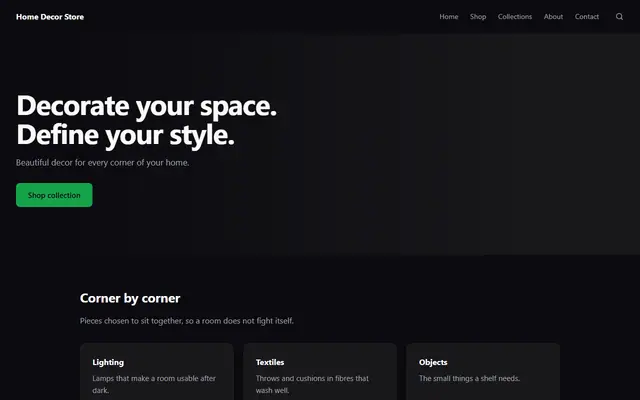
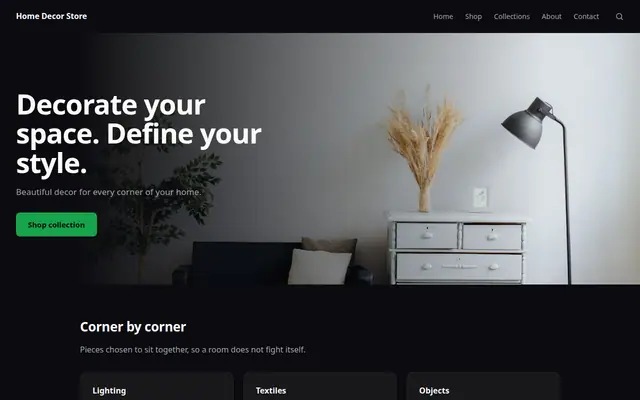
fix(templates): show real hero photos on blank gallery thumbnails
Hero images used loading=lazy and Unsplash AVIF, so some thumbnail
renders (law-firm, startup, music-artist, fashion-brand, and others)
shipped as dark empty tiles with only the index number. Eager-load
heroes, force JPEG during thumbnail shoots, and wait for decode before
screenshotting so every library card shows its photograph.

diff --git a/scripts/render-template-thumbnails.ts b/scripts/render-template-thumbnails.ts
@@ -63,10 +63,25 @@ function documentFor(files: Record<string, string>): string {
     // The stylesheet is referenced as a relative path the page cannot resolve from a data
     // URL, so it is inlined rather than served. Substitution, not rewriting: the <link> is
     // replaced in place so nothing else about the document changes.
-    return html.replace(
+    let doc = html.replace(
         /<link\b[^>]*rel="stylesheet"[^>]*>/i,
         `<style>${css}</style>`,
     );
+
+    // Headless Chromium sometimes negotiates AVIF from Unsplash (`auto=format`) and then
+    // screenshots a black frame even though naturalWidth > 0. Pin JPEG for the shoot so
+    // every gallery tile gets the photograph the design ships.
+    doc = doc.replace(
+        /(https:\/\/images\.unsplash\.com\/[^"'?\s]+)\?([^"'?\s]*)/g,
+        (_match, base: string, query: string) => {
+            const params = new URLSearchParams(query.replace(/&amp;/g, "&"));
+            params.delete("auto");
+            params.set("fm", "jpg");
+            return `${base}?${params.toString()}`;
+        },
+    );
+
+    return doc;
 }
 
 async function shoot(browser: Browser, id: string, html: string): Promise<number> {
@@ -79,22 +94,78 @@ async function shoot(browser: Browser, id: string, html: string): Promise<number
     try {
         await page.setContent(html, { waitUntil: "load" });
 
-        // The hero photograph is the whole character of most of these designs, and
-        // `waitUntil: 'load'` can resolve before a lazily-decoded image has painted. Waiting
-        // on the images themselves is the difference between a library of designs and a
-        // library of grey rectangles.
-        await page
-            .waitForFunction(
-                () => Array.from(document.images).every((i) => i.complete),
-                undefined,
-                { timeout: 15_000 },
-            )
-            .catch(() => {
-                // A photograph that will not load is not a reason to have no thumbnail. The
-                // design's own layout, type and colour are still worth showing, and a missing
-                // picture is visible in review.
-                console.warn(`  ${id}: an image did not load; shooting without it`);
+        // Force every hero photograph to start fetching. `loading="lazy"` (and some
+        // headless intersection quirks with absolute full-bleed frames) used to leave
+        // blank dark tiles in the gallery — exactly the failure this pipeline exists to
+        // prevent.
+        await page.evaluate(() => {
+            for (const img of Array.from(document.images)) {
+                img.loading = "eager";
+                img.setAttribute("fetchpriority", "high");
+                // Kick the loader even when the browser thought the image was off-screen.
+                if (!img.complete || img.naturalWidth === 0) {
+                    const { src } = img;
+                    img.removeAttribute("src");
+                    img.src = src;
+                }
+            }
+        });
+
+        // The hero photograph is the whole character of most of these designs.
+        // `complete` alone is not enough — AVIF/WebP can report naturalWidth before the
+        // frame is painted, which left blank dark tiles (law-firm, dance-studio, …).
+        // Decode the bitmap, then wait two animation frames so Chromium composites it.
+        const painted = await page
+            .evaluate(async () => {
+                const images = Array.from(document.images);
+                const results = await Promise.all(
+                    images.map(async (img) => {
+                        try {
+                            await img.decode();
+                        } catch {
+                            // Broken URL — still "done", just without pixels.
+                        }
+                        return img.naturalWidth > 0;
+                    }),
+                );
+                await new Promise<void>((resolve) =>
+                    requestAnimationFrame(() => requestAnimationFrame(() => resolve())),
+                );
+                return results.every(Boolean) || images.length === 0;
+            })
+            .catch(() => false);
+
+        if (!painted) {
+            console.warn(`  ${id}: an image did not load; shooting without it`);
+        }
+
+        // Prefer JPEG from Unsplash when the original request negotiated AVIF and still
+        // left a blank paint — rare, but cheaper than shipping a dark rectangle.
+        if (!painted) {
+            await page.evaluate(() => {
+                for (const img of Array.from(document.images)) {
+                    if (img.naturalWidth > 0) continue;
+                    try {
+                        const url = new URL(img.src);
+                        url.searchParams.set("fm", "jpg");
+                        url.searchParams.delete("auto");
+                        img.src = url.toString();
+                    } catch {
+                        /* keep original */
+                    }
+                }
             });
+            await page
+                .evaluate(async () => {
+                    await Promise.all(
+                        Array.from(document.images).map((img) => img.decode().catch(() => undefined)),
+                    );
+                    await new Promise<void>((resolve) =>
+                        requestAnimationFrame(() => requestAnimationFrame(() => resolve())),
+                    );
+                })
+                .catch(() => undefined);
+        }
 
         const png = await page.screenshot({ type: "png" });
 
@@ -111,19 +182,36 @@ async function shoot(browser: Browser, id: string, html: string): Promise<number
 }
 
 async function main(): Promise<void> {
-    // Rebuilt from empty every time. A leftover file for a design that has been renamed or
-    // removed is a thumbnail of something that no longer exists, and it would keep being
-    // served because the manifest is the only thing that ever looks.
-    rmSync(OUT_DIR, { recursive: true, force: true });
+    // Optional: `npm run templates:thumbs -- law-firm startup` re-renders only those ids
+    // and leaves the rest of public/templates/ alone. A full run (no args) still rebuilds
+    // from empty so renamed/removed designs cannot leave orphan files behind.
+    const only = new Set(process.argv.slice(2).filter((arg) => !arg.startsWith("-")));
+    const targets = only.size > 0
+        ? TEMPLATES.filter((template) => only.has(template.id))
+        : TEMPLATES;
+
+    if (only.size > 0 && targets.length !== only.size) {
+        const known = new Set(TEMPLATES.map((template) => template.id));
+        const missing = [...only].filter((id) => !known.has(id));
+        console.error(`Unknown template id(s): ${missing.join(", ")}`);
+        process.exit(1);
+    }
+
+    if (only.size === 0) {
+        // Rebuilt from empty every time. A leftover file for a design that has been renamed or
+        // removed is a thumbnail of something that no longer exists, and it would keep being
+        // served because the manifest is the only thing that ever looks.
+        rmSync(OUT_DIR, { recursive: true, force: true });
+    }
     mkdirSync(OUT_DIR, { recursive: true });
 
-    console.log(`Rendering ${TEMPLATES.length} designs at ${OUTPUT.width}x${OUTPUT.height}.\n`);
+    console.log(`Rendering ${targets.length} designs at ${OUTPUT.width}x${OUTPUT.height}.\n`);
 
     const browser = await chromium.launch();
     const sizes: { id: string; bytes: number }[] = [];
 
     try {
-        for (const template of TEMPLATES) {
+        for (const template of targets) {
             const bytes = await shoot(browser, template.id, documentFor(template.files));
             sizes.push({ id: template.id, bytes });
             process.stdout.write(
@@ -136,7 +224,13 @@ async function main(): Promise<void> {
 
     // The manifest is what thumbnailUrlFor() reads. A design absent from it gets null and the
     // gallery draws the miniature — which is why a partial run degrades rather than breaks.
-    const ids = sizes.map((s) => s.id).sort();
+    // Selective runs keep every existing id; full runs replace the list.
+    const existing = only.size > 0
+        ? readdirSync(OUT_DIR)
+            .filter((f) => f.endsWith(".webp"))
+            .map((f) => f.replace(/\.webp$/, ""))
+        : sizes.map((s) => s.id);
+    const ids = [...new Set(existing)].sort();
     writeFileSync(MANIFEST, `${JSON.stringify(ids, null, 2)}\n`);
 
     const total = sizes.reduce((sum, s) => sum + s.bytes, 0);
@@ -156,18 +250,21 @@ async function main(): Promise<void> {
         );
         process.exit(1);
     }
-    if (total > MAX_BYTES_TOTAL) {
-        console.error(
-            `\nTotal ${(total / 1024 / 1024).toFixed(2)} MB is over the ` +
-                `${MAX_BYTES_TOTAL / 1024 / 1024} MB budget for the repository.`,
-        );
-        process.exit(1);
-    }
 
-    const written = readdirSync(OUT_DIR).filter((f) => f.endsWith(".webp"));
-    if (written.length !== TEMPLATES.length) {
-        console.error(`\nWrote ${written.length} files for ${TEMPLATES.length} designs.`);
-        process.exit(1);
+    if (only.size === 0) {
+        if (total > MAX_BYTES_TOTAL) {
+            console.error(
+                `\nTotal ${(total / 1024 / 1024).toFixed(2)} MB is over the ` +
+                    `${MAX_BYTES_TOTAL / 1024 / 1024} MB budget for the repository.`,
+            );
+            process.exit(1);
+        }
+
+        const written = readdirSync(OUT_DIR).filter((f) => f.endsWith(".webp"));
+        if (written.length !== TEMPLATES.length) {
+            console.error(`\nWrote ${written.length} files for ${TEMPLATES.length} designs.`);
+            process.exit(1);
+        }
     }
 }
 

diff --git a/src/lib/templates/blueprint.ts b/src/lib/templates/blueprint.ts
@@ -75,7 +75,10 @@ function heroMarkup(bp: Blueprint, motif: MotifId): string {
     // Either way it sits in the hero.image slot, so swapping it is a content edit — not a
     // template change — and the slot/schema parity the editor relies on holds.
     const art = bp.heroImage
-        ? `<img class="hero-photo" src="${escapeHtml(bp.heroImage.src)}" alt="${escapeHtml(bp.heroImage.alt)}" loading="lazy" decoding="async" />`
+        // Eager: the hero is above the fold (and LCP). Lazy here left Chromium with an
+        // empty frame when thumbnails were rendered, which is why the gallery shipped
+        // blank dark tiles for some designs.
+        ? `<img class="hero-photo" src="${escapeHtml(bp.heroImage.src)}" alt="${escapeHtml(bp.heroImage.alt)}" loading="eager" decoding="async" fetchpriority="high" />`
         : motifToSvg(motif, bp.palette);
 
     return `    <section class="hero">

diff --git a/src/lib/content/slots.ts b/src/lib/content/slots.ts
@@ -101,7 +101,7 @@ function writeImage(inner: string, url: string | null, alt: string): string {
     return inner.replace(IMG_TAG, withAlt);
   }
 
-  return `<img class="hero-photo" src="${escapeHtml(url)}" alt="${escapeHtml(alt)}" loading="lazy" decoding="async" />`;
+  return `<img class="hero-photo" src="${escapeHtml(url)}" alt="${escapeHtml(alt)}" loading="eager" decoding="async" fetchpriority="high" />`;
 }
 
 /* --------------------------------------------------------------- colours */
